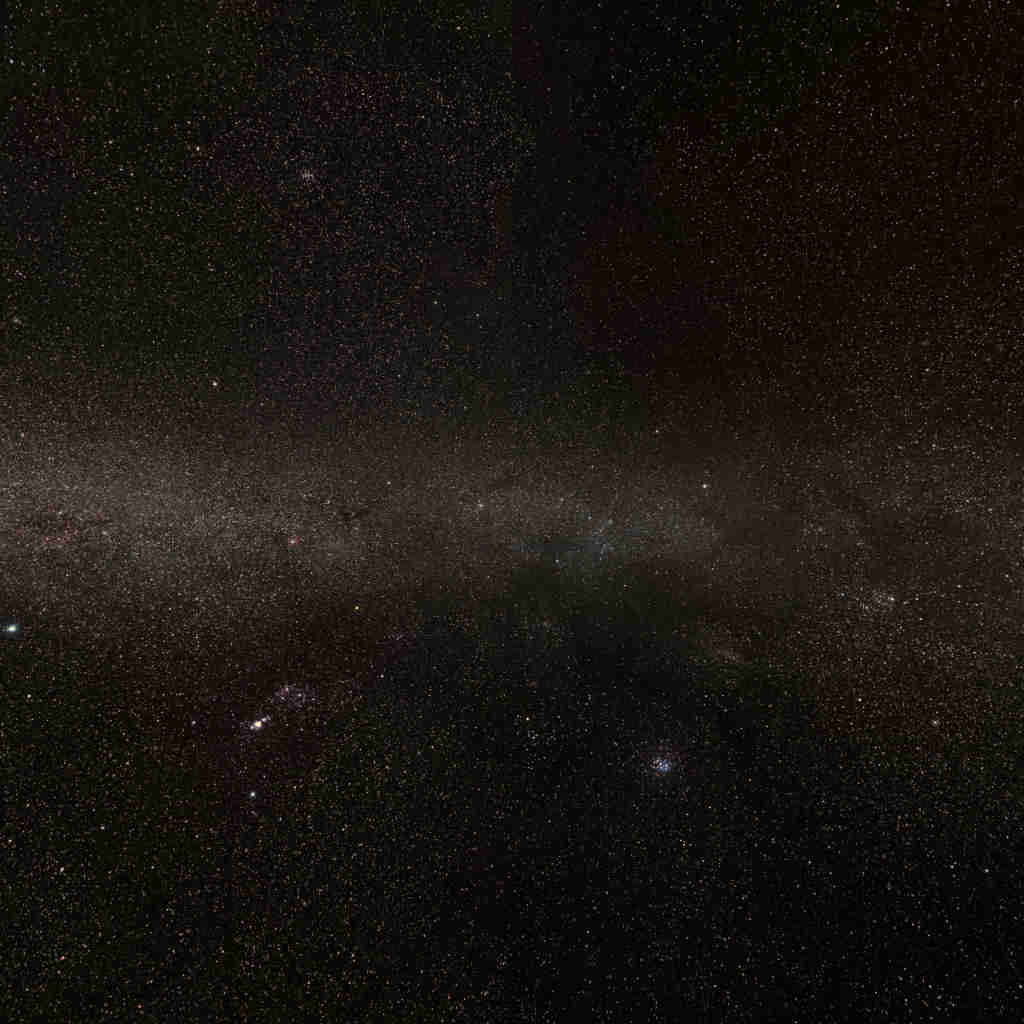
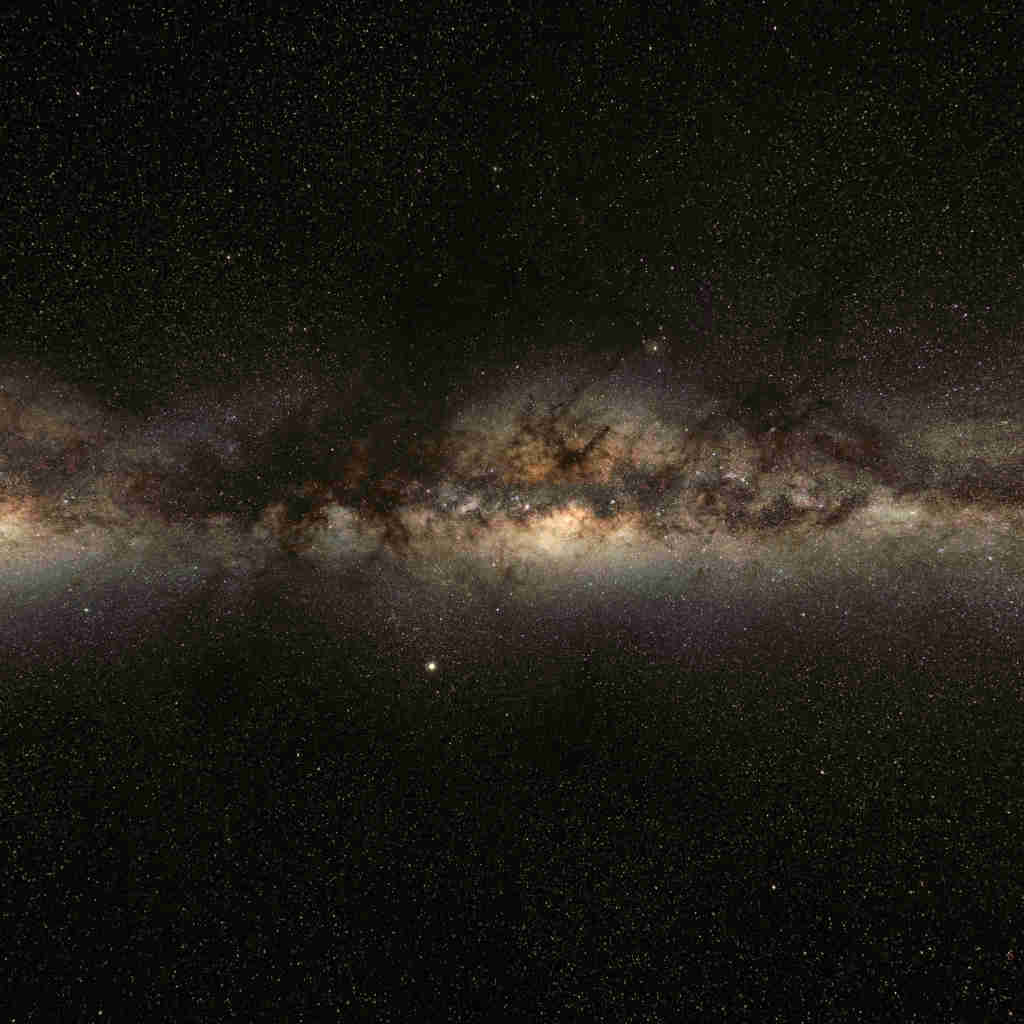
Adjust env map to include more light areas

diff --git a/README.md b/README.md
@@ -17,6 +17,12 @@
 - [ ] Plot points
 - [ ] Arcs
 - [ ] Bars extending outwards
-- [ ] Better environment for reflections
+- [✔] Better environment for reflections
 - [ ] GUI for configuration
 - [ ] Try different styles
+
+# Credits
+
+- Space env map is modified from this [milky way image](https://commons.wikimedia.org/wiki/File:ESO_-_Milky_Way.jpg)
+- Uses [FakeGlowMaterial](https://github.com/ektogamat/fake-glow-material-threejs) from @ektogamat
+- Inspired by [Seismic3D](https://shahnab.github.io/Seismic3D/)
